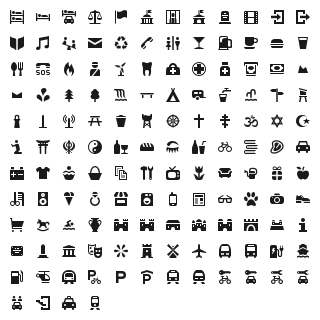
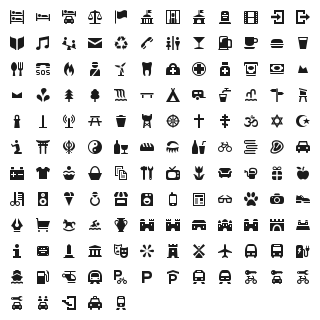
add stationery shop (resolves #33)

diff --git a/font/osmic-preview.html b/font/osmic-preview.html
@@ -276,6 +276,7 @@
 .oc-shoes:before,
 .oc-sikhist:before,
 .oc-spring:before,
+.oc-stationery:before,
 .oc-subway-entrance:before,
 .oc-supermarket:before,
 .oc-swimming:before,
@@ -426,6 +427,7 @@
 .oc-shoes:before { content: "\f160"; }
 .oc-sikhist:before { content: "\f161"; }
 .oc-spring:before { content: "\f162"; }
+.oc-stationery:before { content: "\f189"; }
 .oc-subway-entrance:before { content: "\f163"; }
 .oc-supermarket:before { content: "\f164"; }
 .oc-swimming:before { content: "\f173"; }
@@ -461,7 +463,7 @@
   <body class="characters-off">
     <div id="page" class="container">
       <header>
-        <h1>osmic contains 136 glyphs:</h1>
+        <h1>osmic contains 137 glyphs:</h1>
         <a onclick="toggleCharacters(); return false;" href="#">Toggle Preview Characters</a>
       </header>
 
@@ -1971,6 +1973,19 @@
         <div class="usage">
           <input class="class" type="text" readonly="readonly" onClick="this.select();" value=".oc-spring" />
           <input class="point" type="text" readonly="readonly" onClick="this.select();" value="&amp;#xf162;" />
+        </div>
+      </div>
+      
+      <div class="glyph">
+        <div class="preview-glyphs">
+          <span class="step size-12"><span class="letters">Pp</span><i id="oc-stationery" class="oc-stationery"></i></span><span class="step size-14"><span class="letters">Pp</span><i id="oc-stationery" class="oc-stationery"></i></span><span class="step size-16"><span class="letters">Pp</span><i id="oc-stationery" class="oc-stationery"></i></span><span class="step size-18"><span class="letters">Pp</span><i id="oc-stationery" class="oc-stationery"></i></span><span class="step size-21"><span class="letters">Pp</span><i id="oc-stationery" class="oc-stationery"></i></span><span class="step size-24"><span class="letters">Pp</span><i id="oc-stationery" class="oc-stationery"></i></span><span class="step size-36"><span class="letters">Pp</span><i id="oc-stationery" class="oc-stationery"></i></span><span class="step size-48"><span class="letters">Pp</span><i id="oc-stationery" class="oc-stationery"></i></span><span class="step size-60"><span class="letters">Pp</span><i id="oc-stationery" class="oc-stationery"></i></span><span class="step size-72"><span class="letters">Pp</span><i id="oc-stationery" class="oc-stationery"></i></span>
+        </div>
+        <div class="preview-scale">
+          <span class="step">12</span><span class="step">14</span><span class="step">16</span><span class="step">18</span><span class="step">21</span><span class="step">24</span><span class="step">36</span><span class="step">48</span><span class="step">60</span><span class="step">72</span>
+        </div>
+        <div class="usage">
+          <input class="class" type="text" readonly="readonly" onClick="this.select();" value=".oc-stationery" />
+          <input class="point" type="text" readonly="readonly" onClick="this.select();" value="&amp;#xf189;" />
         </div>
       </div>
       

diff --git a/font/osmic.css b/font/osmic.css
@@ -139,6 +139,7 @@
 .oc-shoes:before,
 .oc-sikhist:before,
 .oc-spring:before,
+.oc-stationery:before,
 .oc-subway-entrance:before,
 .oc-supermarket:before,
 .oc-swimming:before,
@@ -289,6 +290,7 @@
 .oc-shoes:before { content: "\f160"; }
 .oc-sikhist:before { content: "\f161"; }
 .oc-spring:before { content: "\f162"; }
+.oc-stationery:before { content: "\f189"; }
 .oc-subway-entrance:before { content: "\f163"; }
 .oc-supermarket:before { content: "\f164"; }
 .oc-swimming:before { content: "\f173"; }
